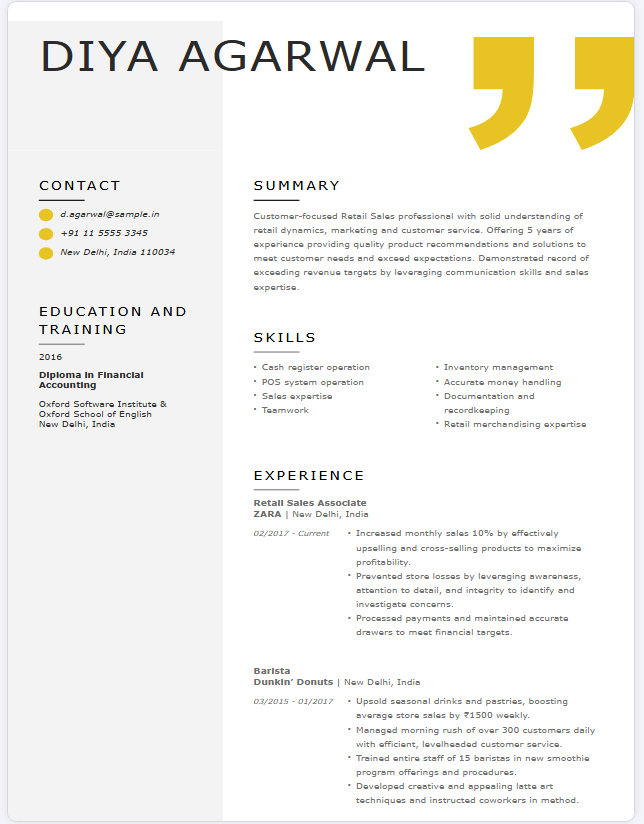
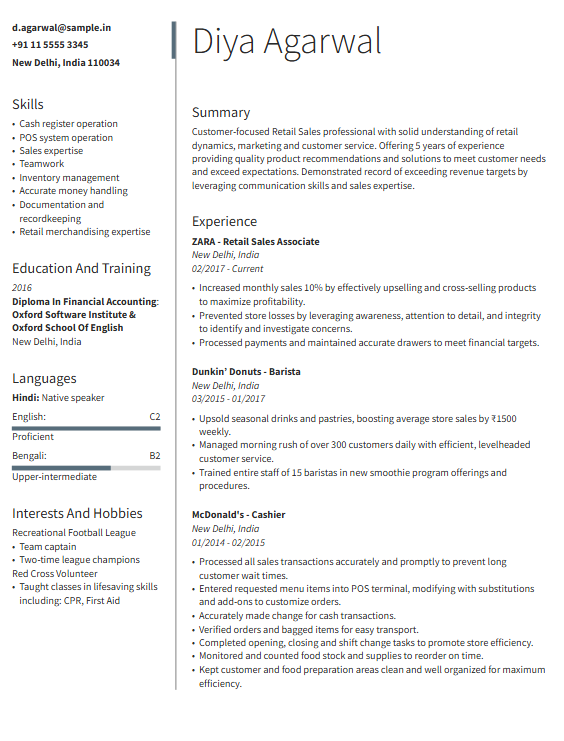
refactor: templates section added animations fade in

Changed region(s): [[0.0, 0.031, 0.9947, 1.0], [0.0, 0.6829, 0.2713, 0.8381], [0.0, 0.031, 0.2411, 0.0931]]

diff --git a/client/components/Home/Templates.tsx b/client/components/Home/Templates.tsx
@@ -1,28 +1,48 @@
 import React from "react";
 import t1 from "@/public/templates/1.jpg";
 import t2 from "@/public/templates/2.jpg";
+import t3 from "@/public/templates/3.png";
 import t4 from "@/public/templates/4.png";
-import t5 from "@/public/templates/5.png";
-import t6 from "@/public/templates/6.png";
-import t7 from "@/public/templates/7.png";
+import t5 from "@/public/templates/5.jpg";
 import Image from "next/image";
 import { cn } from "@/lib/utils";
+import { motion } from "motion/react";
 
-const templates = [t1, t2, t4, t5, t6, t7];
+const templates = [t1, t2, t3, t4, t5];
 
 const Templates = () => {
   return (
-    <div className="p-6" id="templates">
-      <h1 className="text-4xl font-extrabold mb-20 text-center">
-        Templates
-      </h1>
-      <div className="grid grid-cols-2 md:grid-cols-3 gap-4 place-items-center">
+    <div
+      className="p-6 border border-secondary rounded-2xl backdrop-blur-xs bg-accent/10"
+      id="templates"
+    >
+      <h1 className="text-4xl font-extrabold mb-20 text-center">Templates</h1>
+      <div className="grid grid-cols-2 md:grid-cols-5 gap-4 place-items-center">
         {templates.map((template, index) => (
-          <div
+          <motion.div
+            initial={{
+              y: 14,
+              opacity: 0,
+              filter: "blur(3px)",
+            }}
+            whileInView={{
+              y: 0,
+              opacity: 1,
+              filter: "blur(0px)",
+            }}
+            transition={{
+              filter: {
+                duration: 0.4,
+              },
+              delay: index * 0.1,
+              duration: 0.7,
+            }}
+            viewport={{
+              once: true,
+            }}
             key={index}
             className={cn(
-              "w-full lg:w-100 lg:h-134 h-64 overflow-hidden rounded-lg shadow-md",
-              index === 6 && "lg:col-span-3 md:col-span-3"
+              "w-full lg:w-full lg:h-94 h-64 overflow-hidden rounded-lg shadow-md"
             )}
           >
             <Image
@@ -30,9 +50,9 @@ const Templates = () => {
               height={1920}
               src={template.src || template}
               alt={`Template ${index + 1}`}
-              className="w-full h-full object-cover hover:scale-105 transition-transform duration-300"
+              className="w-full h-full object-cover active:scale-105 hover:scale-105 transition-transform duration-300"
             />
-          </div>
+          </motion.div>
         ))}
       </div>
     </div>

diff --git a/client/components/Home/Hero.tsx b/client/components/Home/Hero.tsx
@@ -57,7 +57,7 @@ const Hero = () => {
               className="
               inline-flex items-center gap-2
               rounded-full px-4 py-1.5
-              bg-white/10 backdrop-blur-md
+              bg-white/10 backdrop-blur-xs
               border border-white/20
               text-xs uppercase tracking-wider
               text-white/80
